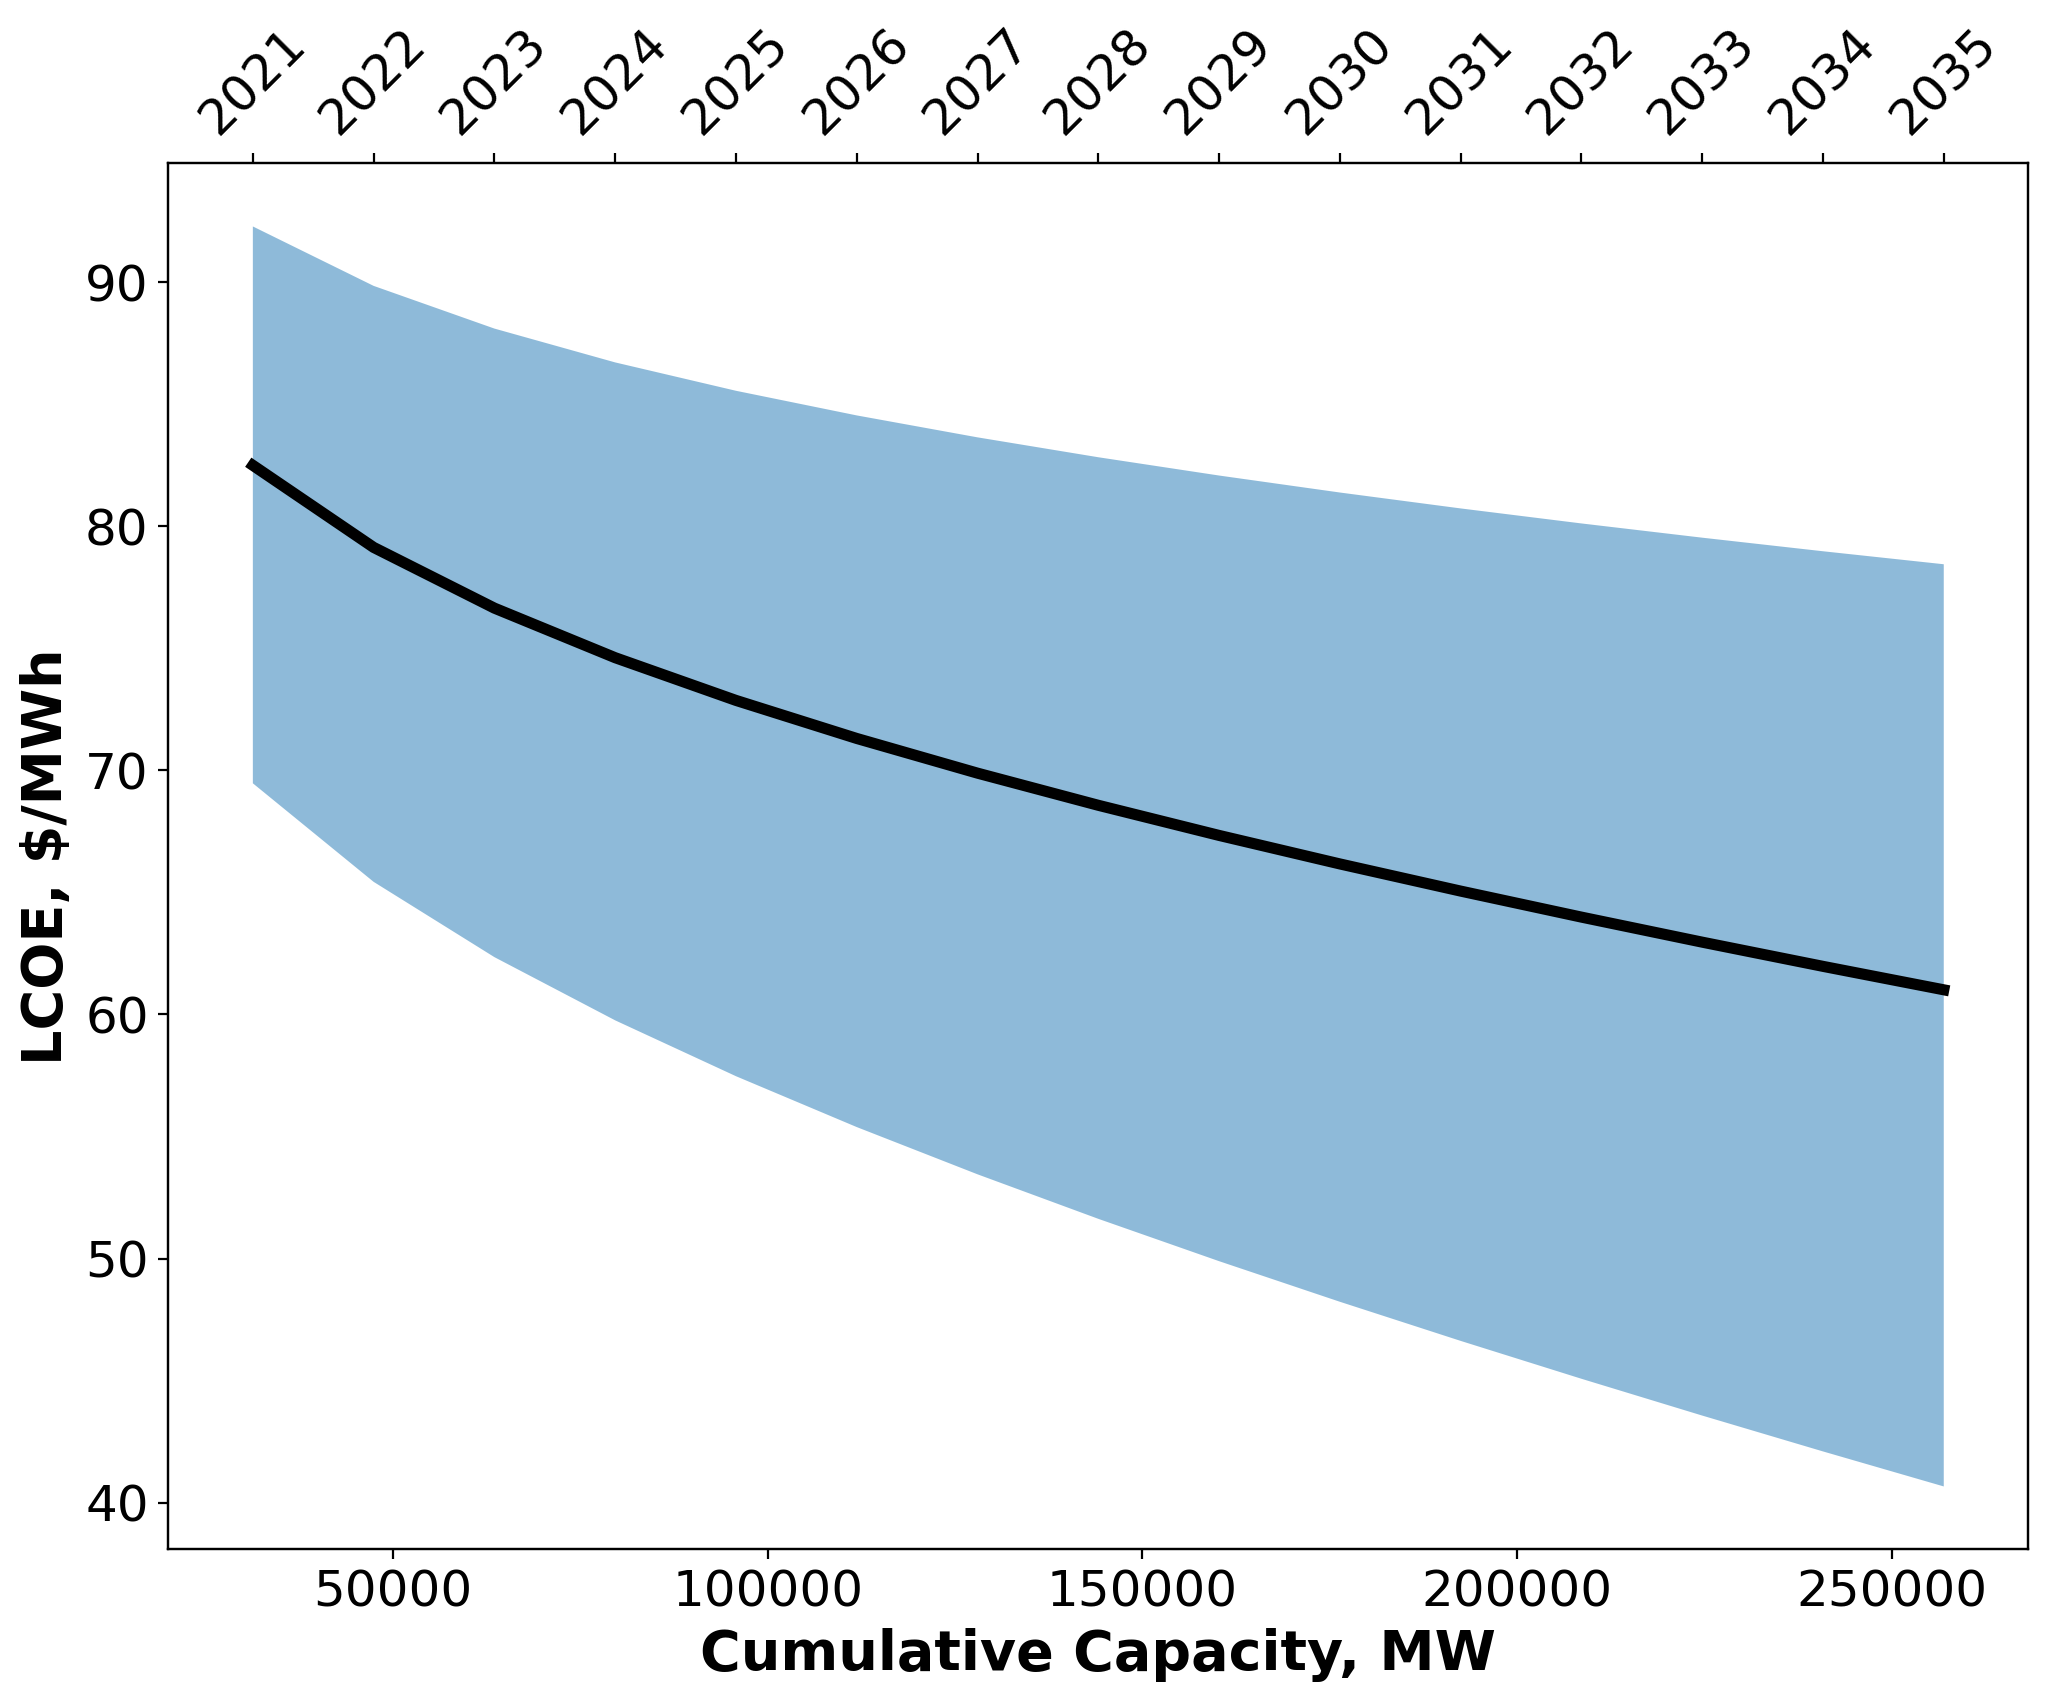
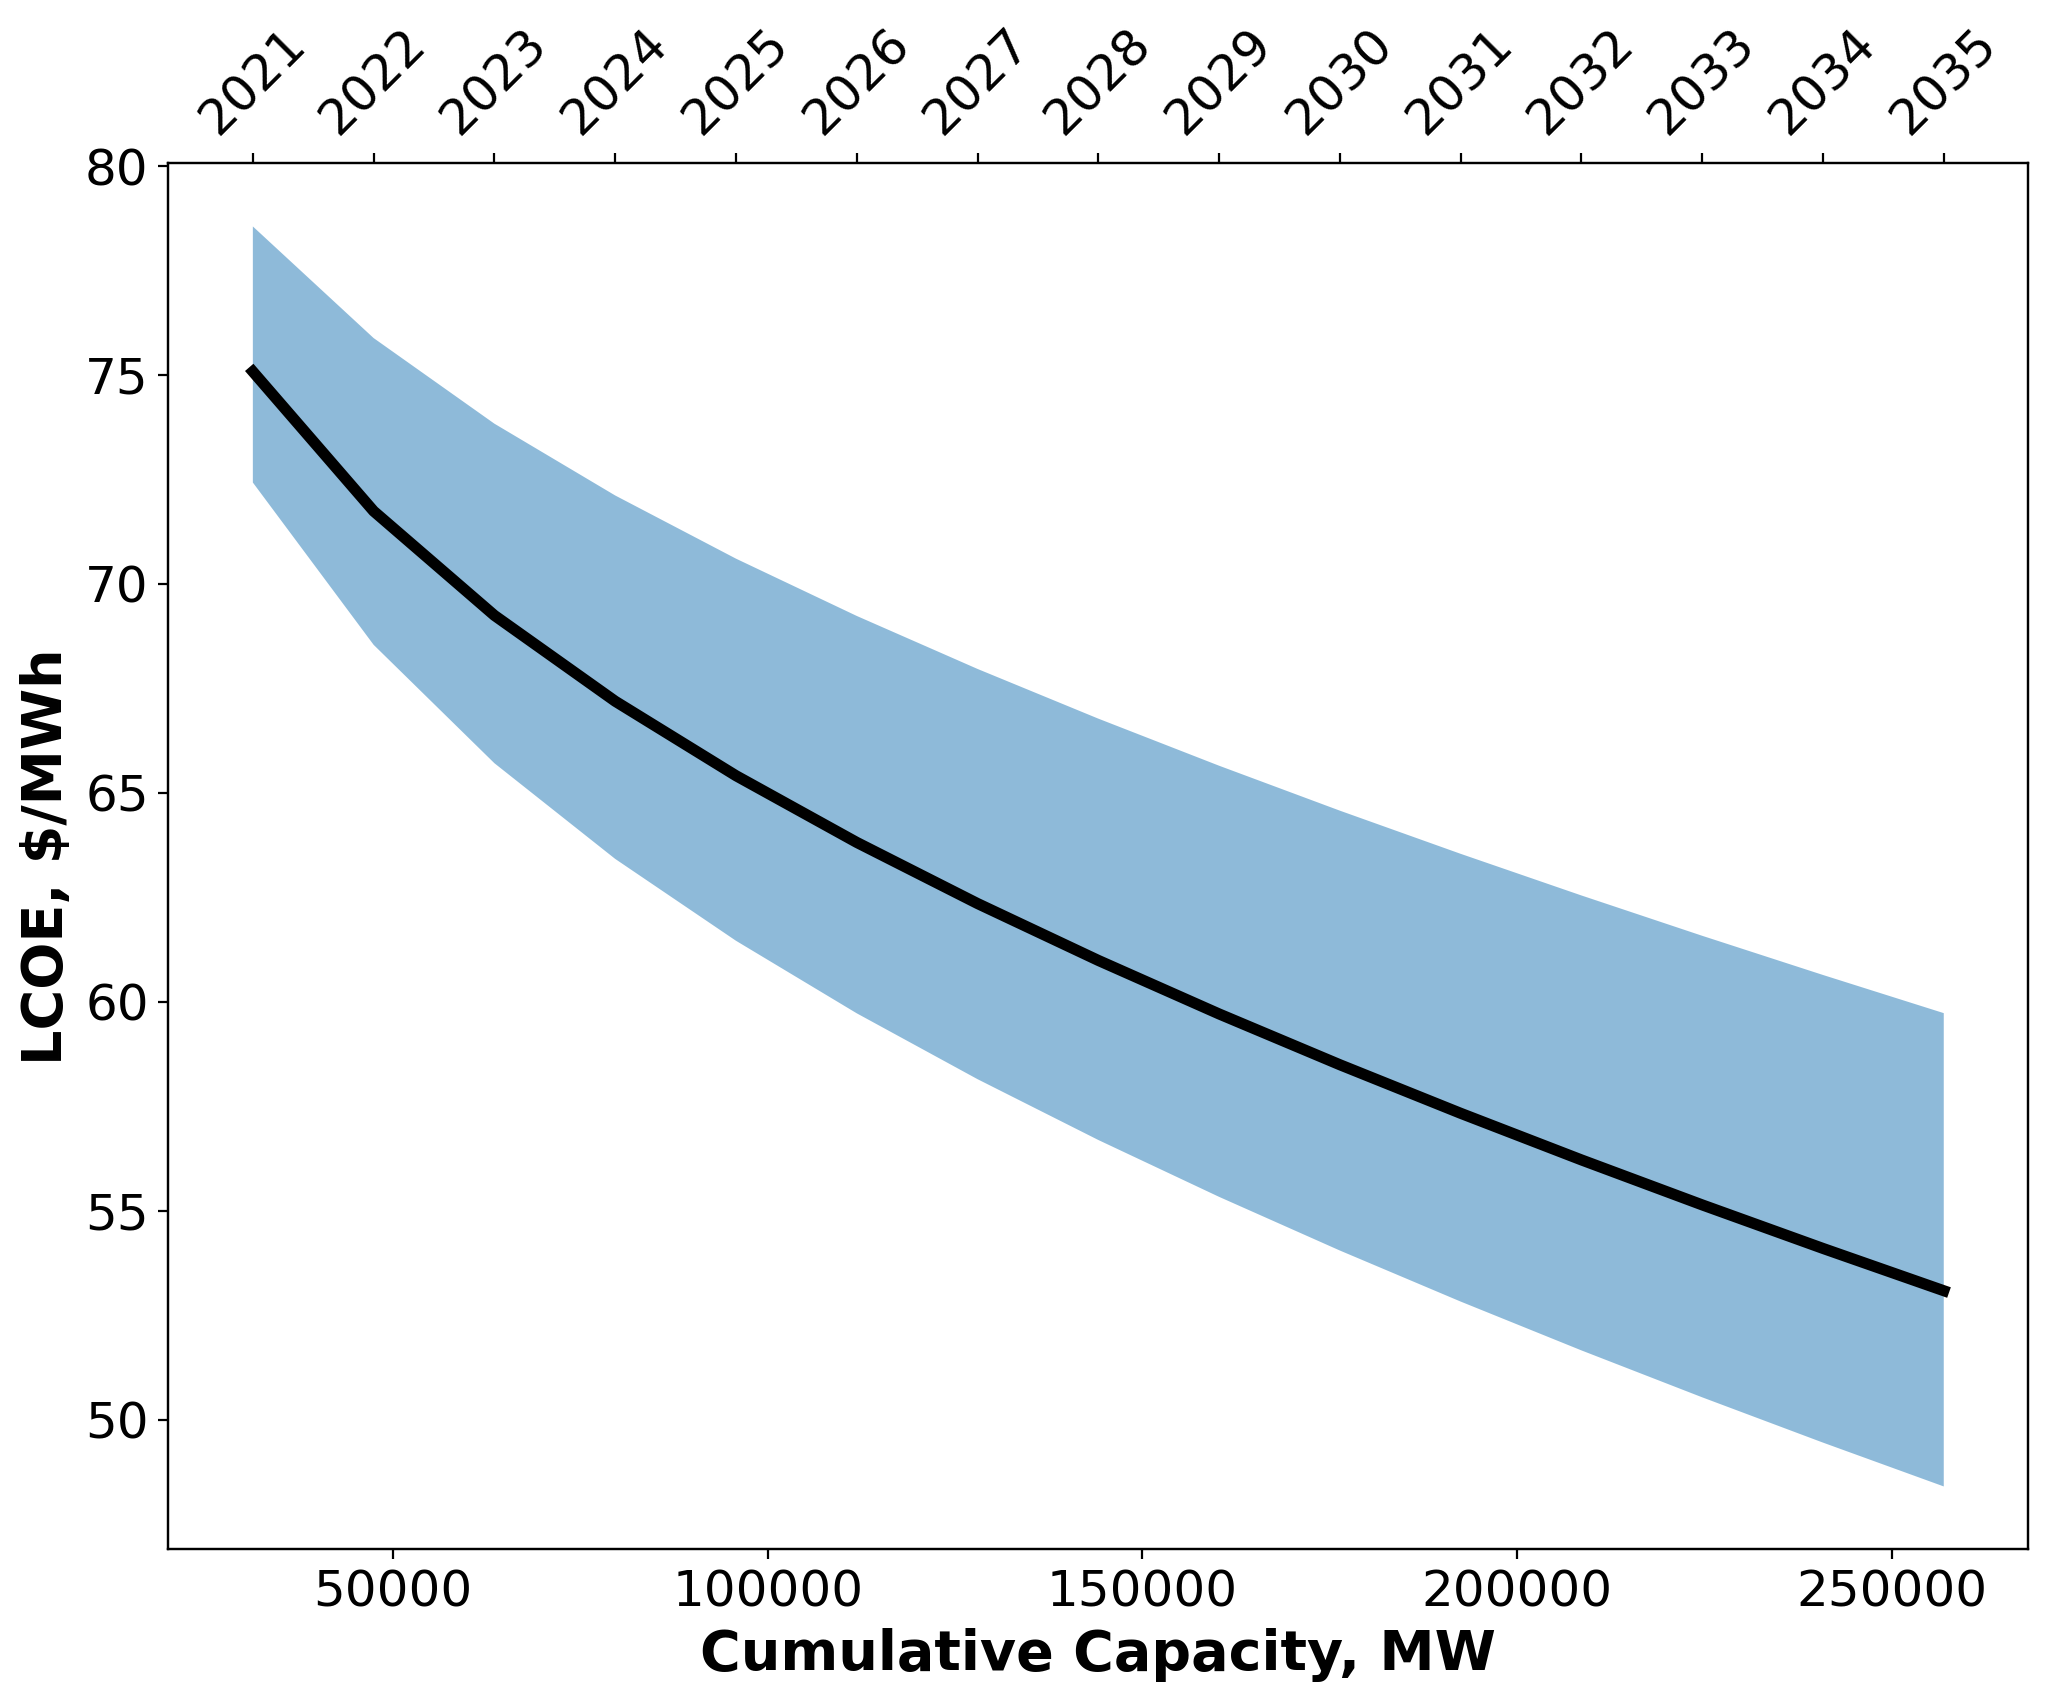
Updated Opex and NCF to match ATB.  Added quick plot routine for deployment

diff --git a/analysis/orbit_comparison.py b/analysis/orbit_comparison.py
@@ -12,7 +12,7 @@ import matplotlib.pyplot as plt
 from ORBIT import ProjectManager, load_config
 from ORBIT.core.library import initialize_library
 from FORCE.learning import Regression
-from plot_routines import scatter_plot, plot_forecast, plot_forecast_comp
+from plot_routines import scatter_plot, plot_forecast, plot_forecast_comp, plot_deployment
 import pprint as pp
 
 
@@ -32,9 +32,14 @@ FORECAST_FIXED = pd.read_csv(FORECAST_FP_FIXED).set_index("year").to_dict()["cap
 FORECAST_FP_FLOATING = os.path.join(DIR, "data", "2021_floating_forecast.csv")
 FORECAST_FLOATING = pd.read_csv(FORECAST_FP_FLOATING).set_index("year").to_dict()["capacity"]
 
+plot_deployment(list(FORECAST_FIXED.keys()), list(FORECAST_FIXED.values()),
+                list(FORECAST_FLOATING.keys()), list(FORECAST_FLOATING.values()),
+                'results/deployment.png'
+                )
+
 ## Scaling factor for demonstration-scale floating capex
-FLOATING_DEMO_SCALE = 3
-FLOATING_CAPACITY_2021 = 72
+FLOATING_DEMO_SCALE = 3.03
+FLOATING_CAPACITY_2020 = 91   # Cumulative capacity as of previous year.  From OWMR.
 
 ## Regression Settings
 PROJECTS = pd.read_csv(os.path.join(DIR, "data", "2021_OWMR.csv"), header=2)
@@ -325,11 +330,12 @@ def regression_and_plot(FORECAST, PROJECTS, FILTERS, TO_AGGREGATE, TO_DROP, PRED
     else:
         # Todo: Move to Regression class
         upcoming_capacity = {
-            k: v - FLOATING_CAPACITY_2021 for k, v in FORECAST.items()
+            k: v - FLOATING_CAPACITY_2020 for k, v in FORECAST.items()
         }
 
     # ORBIT Results
     combined_outputs = run_orbit_configs(ORBIT_SITES, b0, upcoming_capacity, years, fixfloat=fixfloat)
+    print(upcoming_capacity, combined_outputs)
     initial_capex_range = combined_outputs.loc[2021, 'ORBIT'].values
     avg_start = pd.pivot_table(combined_outputs.reset_index(), values='ORBIT', index='index').iloc[0].values[0]
     std_start =  \
@@ -416,7 +422,7 @@ def regression_and_plot(FORECAST, PROJECTS, FILTERS, TO_AGGREGATE, TO_DROP, PRED
 if __name__ == "__main__":
 
     # Fixed bottom
-    # regression_and_plot(FORECAST_FIXED, PROJECTS, FILTERS, TO_AGGREGATE, TO_DROP, FIXED_PREDICTORS, ORBIT_FIXED_SITES)
+    regression_and_plot(FORECAST_FIXED, PROJECTS, FILTERS, TO_AGGREGATE, TO_DROP, FIXED_PREDICTORS, ORBIT_FIXED_SITES)
 
     # Floating
     # float_phases = ['ArraySystemDesign',
@@ -436,5 +442,5 @@ if __name__ == "__main__":
 
     # TODO:
     #   3. Plots for high/medium/low deployment projectsions
-    #   4.  Floating
+    #   4.
 

diff --git a/analysis/plot_routines.py b/analysis/plot_routines.py
@@ -208,3 +208,23 @@ def plot_forecast_comp(fig, ax, forecast, yavg, ymin, ymax, y0, ylabel,
         myformat(ax)
         mysave(fig, fname)
         plt.close()
+
+def plot_deployment(x1, y1, x2, y2, fname=None):
+    fig, ax = initFigAxis()
+
+    ax.plot(x1,y1, color='k', label='Fixed-bottom')
+    ax.plot(x2,y2, color='k', linestyle='dashed', label='Floating')
+
+    ax.set_xlabel('Year')
+    ax.set_ylabel('Cumulative capacity, MW')
+
+    ax.set_ylim([0, 300000])
+    ax.set_xticks(np.arange(min(x1), max(x1)+1, 2))
+
+    plt.legend()
+
+    if fname:
+        myformat(ax)
+        mysave(fig, fname)
+        plt.close()
+
